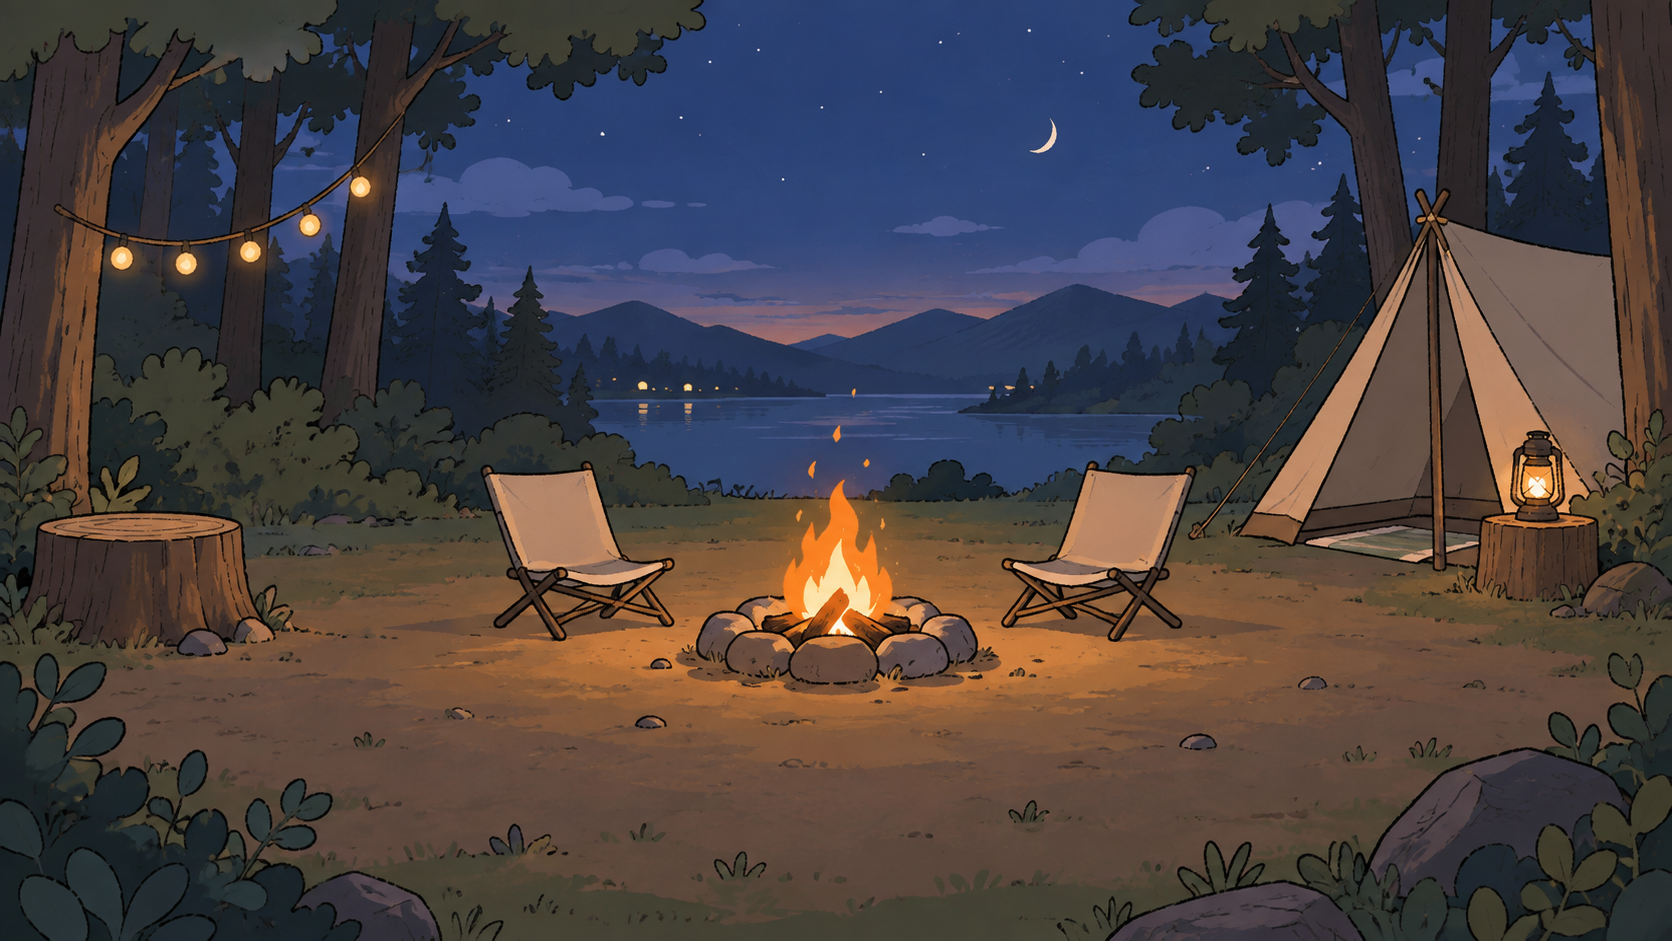
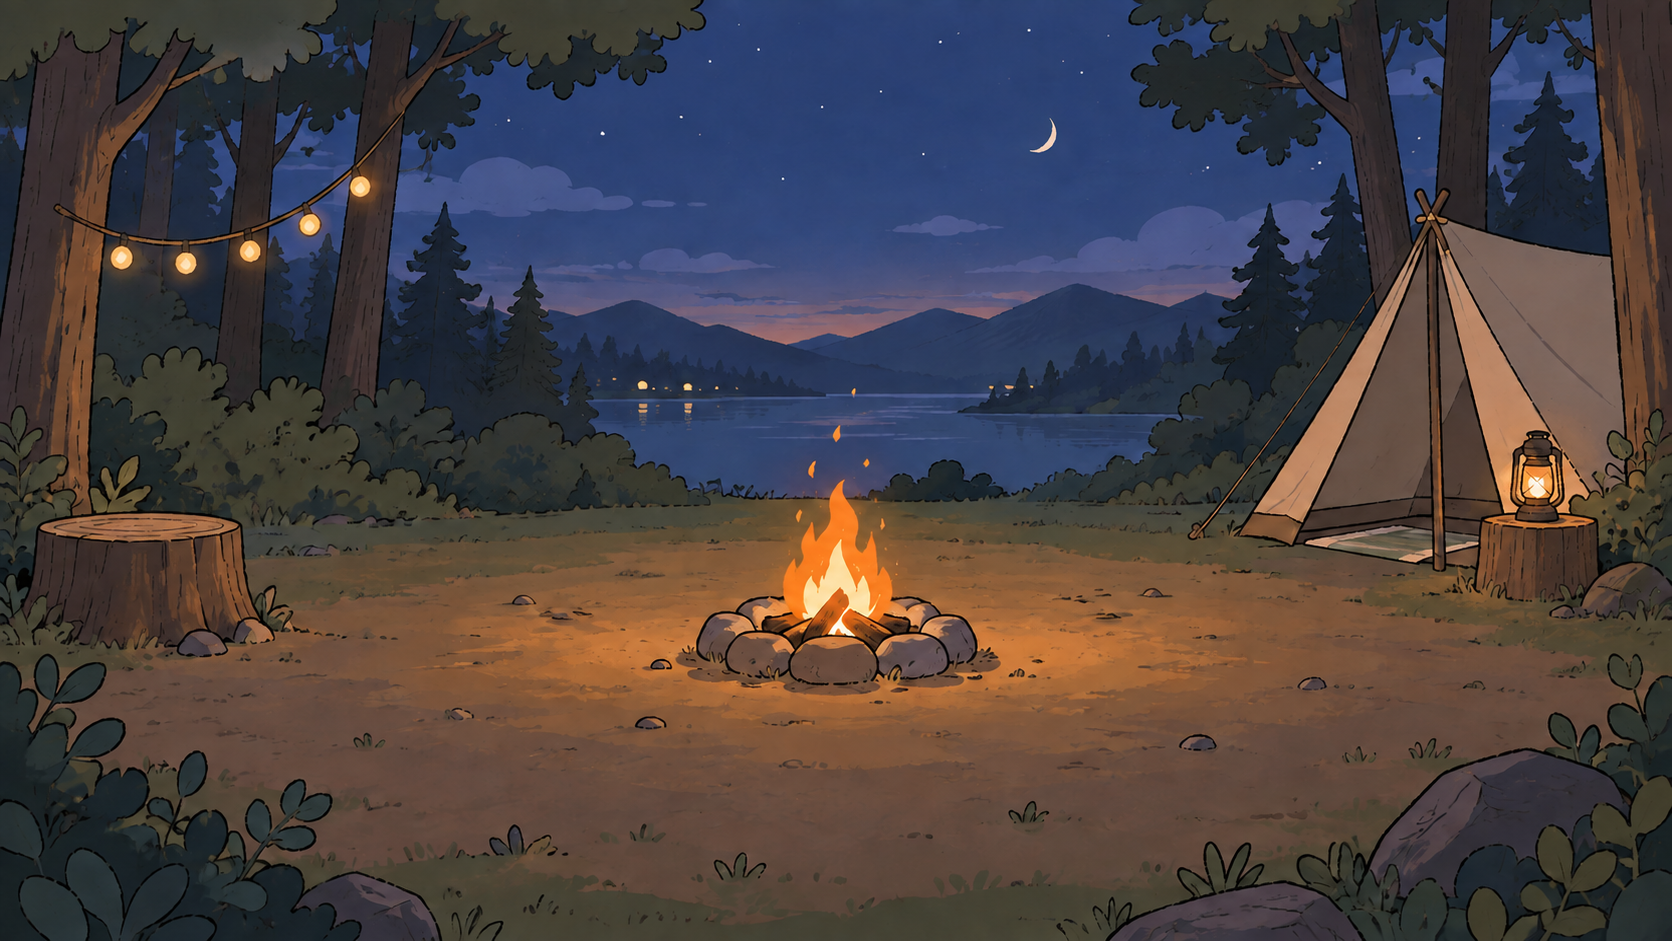
같이 테마 좌석 제거와 눈찌 위치 조정

diff --git a/web/src/App.tsx b/web/src/App.tsx
@@ -2104,7 +2104,7 @@ function PocketApp({ userHash }: { userHash: string }) {
               className={`dog-wrap party-mate-dog ${dogMotion ? `is-busy motion-${dogMotion}` : 'is-idle'}`}
               style={{
                 left: '34%',
-                bottom: '-2%',
+                bottom: '4%',
               }}
             >
               {bubbleVisible && (
@@ -2143,7 +2143,7 @@ function PocketApp({ userHash }: { userHash: string }) {
               className="dog-wrap party-mate-dog is-idle"
               style={{
                 left: '66%',
-                bottom: '-2%',
+                bottom: '4%',
               }}
               aria-label={`${mateRoom.mateName} 눈찌`}
             >
